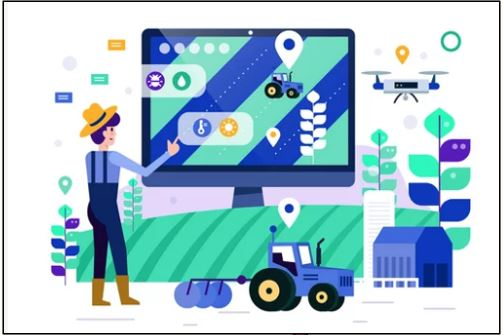
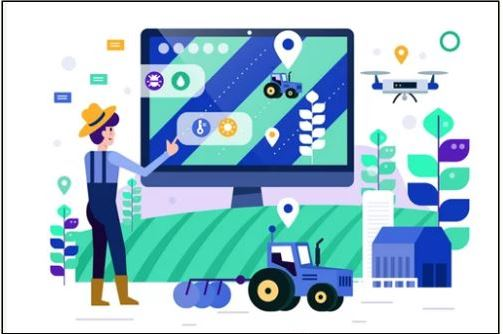
修正JPG

diff --git a/index.html b/index.html
@@ -167,7 +167,7 @@
                                     <p>
                                         提供視覺化使用者介面
                                     </p>
-                                    <a href=" # " class=" image featured "><img src=" images/GUI.jpg " style="max-width:360px;max-height: 240px;min-height: 240px;width: 100% " alt=" " /></a>
+                                    <a href=" # " class=" image featured "><img src=" images/gui.jpg " style="max-width:360px;max-height: 240px;min-height: 240px;width: 100% " alt=" " /></a>
                                     <h3><a href=" # ">濃度，作物選擇，水位設定</a></h3>
 
 
@@ -180,7 +180,7 @@
                                         提供感測器數據給matlab與資料庫。
                                     </p>
                                     <section class=" box feature ">
-                                        <a href=" # " class=" image featured "><img src=" images/ARD.jpg" style="max-width:360px;max-height: 240px;min-height: 240px;width: 100%" alt=" " /></a>
+                                        <a href=" # " class=" image featured "><img src=" images/ard.jpg" style="max-width:360px;max-height: 240px;min-height: 240px;width: 100%" alt=" " /></a>
                                         <h3><a href=" # ">Arduino</a></h3>
                                         <p>
                                             123
